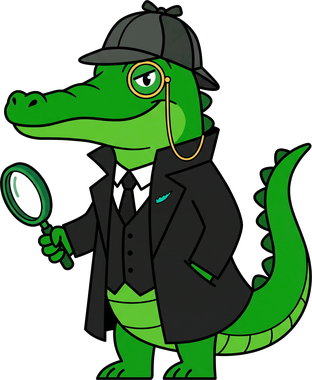
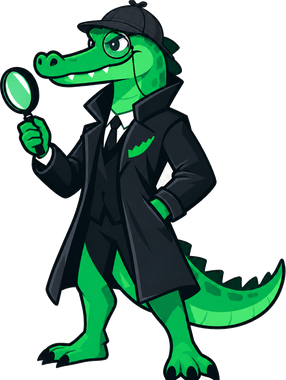
Mascote: a arte do autor, com o fundo em xadrez convertido em transparencia
O autor trouxe a personagem original ja com o chapeu, o monoculo e o
logotipo ao peito, e virada para o balao. E melhor do que a que eu tinha
gerado por uma razao objetiva: e a MESMA personagem. Mantem o verde, o
casaco com a capa aos ombros e as escamas da arte original; a minha era um
jacare novo com os mesmos adereços.

O ficheiro vinha em RGB com um xadrez DESENHADO no lugar da transparencia.
Foi retirado por preenchimento a partir dos cantos, com um teste de claro-e-
neutro em vez de uma cor exacta: o xadrez tem dois cinzentos, e procurar um
so deixaria metade do fundo para tras.

A figura 4.6 do capitulo 4 foi regerada. Tese: 0 erros, 0 referencias por
resolver, 126 paginas.

Claude-Session: https://claude.ai/code/session_01MxeyFPV1dA1vkr92wXzTpz

diff --git a/web/index.html b/web/index.html
@@ -355,7 +355,7 @@
       <div class="dia" id="dataHoje">—</div>
       <p id="frase">Reading the day…</p>
     </div>
-    <img class="mascote" src="/assets/mascote-small.png" alt="" width="313" height="380">
+    <img class="mascote" src="/assets/mascote-small.png" alt="" width="286" height="380">
   </section>
 
   <dl class="kpis" id="kpis"></dl>

diff --git a/docs/design/marca/README.md b/docs/design/marca/README.md
@@ -1,0 +1,32 @@
+# Mascote — o que está aqui, e porquê
+
+O jacaré é a mascote; o logótipo é a cauda. São duas coisas, e não se
+substituem uma à outra.
+
+## A que está no ar
+
+`web/assets/mascote.png` (760 px de altura) e `mascote-small.png` (380 px,
+a que a página serve). É a arte do autor, com quatro coisas que ele pediu:
+
+- virado para a esquerda, porque o balão de fala está à esquerda dele;
+- chapéu à Sherlock;
+- monóculo com corrente;
+- o logótipo do InvestiGator ao peito, como lenço de bolso.
+
+O fundo veio como um xadrez desenhado e não como transparência real. Foi
+retirado por preenchimento a partir dos cantos, com um teste de «claro e
+neutro» em vez de uma cor exacta — o xadrez tem dois cinzentos, e procurar um
+só deixaria metade do fundo para trás.
+
+## As que ficaram pelo caminho
+
+`mascote-alternativa-azeitona.png` — uma personagem inteiramente nova,
+gerada quando ainda não havia esta. Serve tudo o que foi pedido, mas é outro
+jacaré: perde o casaco com a capa aos ombros e o verde da arte original.
+Fica registada porque foi feita, não porque seja para usar.
+
+Houve antes uma tentativa de desenhar o chapéu e o monóculo como uma camada
+por cima da arte antiga. Ficou a parecer o que era, e foi abandonada. A
+lição, que vale para as restantes peças da marca: acessórios colados por cima
+de uma personagem lêem-se como autocolantes; ou a personagem é redesenhada
+com eles, ou não se põem.
